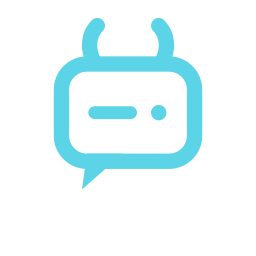
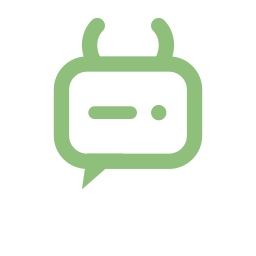
theme: color the sidebar mark + wordmark from the accent role
The boot mark image and the F A M I L I A R wordmark were painted in a
hardcoded cyan (rgb 90,212,230 / a currentColor-baked PNG) that clashes
with the gruvbox default palette. Derive both from the active Familiar
theme's `accent` role instead.

- familiar.sh exports the boot-resolved accent (familiar-theme.sh accent,
  which already honors FAMILIAR_THEME_ACCENT / [theme] overrides) as
  FAMILIAR_MARK_ACCENT before launching the viewer. presence.sh propagates
  it; a cold restart after a [theme] change recolors both mark and text.
- viewer wordmark text: color parsed from FAMILIAR_MARK_ACCENT; env-absent
  fallback is the ANSI cyan slot (host Familiar palette), never a literal.
- viewer mark PNG: tinted at load — RGB flattened to accent, per-pixel
  alpha preserved for smooth edges. Deterministic, no rsvg at runtime.
- re-baked the committed fallback assets/familiar-mark.png from the SVG
  using the canonical default accent (#8ec07c) so the env-absent fallback
  cannot clash with the default palette.

Tests: viewer parse_hex_rgb + tint_rgba_png (structural decode, alpha
preserved, not a byte snapshot) and wordmark accent/not-cyan assertions;
familiar-theme.test.sh proves the mark accent is not the retired cyan and
that an override changes it. Reuses the existing `accent` role — no new
theme role introduced.

Changed region(s): [[0.1875, 0.0625, 0.8125, 0.75], [0.3438, 0.4062, 0.5312, 0.4688], [0.5938, 0.4062, 0.6562, 0.4688]]

diff --git a/services/viewer/src/graphics/mod.rs b/services/viewer/src/graphics/mod.rs
@@ -601,7 +601,80 @@ fn load_mark_png() -> Option<Vec<u8>> {
                 }
             }
         });
-    path.and_then(|p| fs::read(p).ok())
+    let bytes = path.and_then(|p| fs::read(p).ok())?;
+    // The mark ships pre-rasterized (RGB baked in). When the boot path exports
+    // the theme-resolved accent as FAMILIAR_MARK_ACCENT, retint the mark to that
+    // color — the wordmark text derives from the same env, so image and text stay
+    // in lockstep and a `[theme]` accent override recolors both on restart.
+    let tinted = std::env::var("FAMILIAR_MARK_ACCENT")
+        .ok()
+        .and_then(|hex| parse_hex_rgb(&hex))
+        .and_then(|rgb| tint_rgba_png(&bytes, rgb));
+    Some(tinted.unwrap_or(bytes))
+}
+
+/// Parses `#rgb`, `#rrggbb`, or `#rrggbbaa` into an RGB triple (alpha ignored:
+/// the mark carries its own alpha). Returns None for any malformed value so
+/// callers fall back to the untinted asset rather than panicking at boot.
+pub fn parse_hex_rgb(value: &str) -> Option<(u8, u8, u8)> {
+    let hex = value.strip_prefix('#')?;
+    let expand = |c: u8| (c << 4) | c;
+    let h = |s: &str| u8::from_str_radix(s, 16).ok();
+    match hex.len() {
+        3 => {
+            let b = hex.as_bytes();
+            let d = |c: u8| h(std::str::from_utf8(&[c]).ok()?).map(expand);
+            Some((d(b[0])?, d(b[1])?, d(b[2])?))
+        }
+        6 | 8 => Some((h(&hex[0..2])?, h(&hex[2..4])?, h(&hex[4..6])?)),
+        _ => None,
+    }
+}
+
+/// Recolors an RGBA PNG to a single accent, preserving each pixel's alpha so
+/// antialiased edges stay smooth. Deterministic and rsvg-free: the mark is a
+/// monochrome silhouette, so flattening RGB to the accent is the intended look.
+/// Returns None (caller keeps the original bytes) if the PNG can't be decoded.
+pub fn tint_rgba_png(bytes: &[u8], (r, g, b): (u8, u8, u8)) -> Option<Vec<u8>> {
+    let mut decoder = png::Decoder::new(std::io::Cursor::new(bytes));
+    decoder.set_transformations(png::Transformations::EXPAND | png::Transformations::STRIP_16);
+    let mut reader = decoder.read_info().ok()?;
+    let mut buffer = vec![0u8; reader.output_buffer_size()];
+    let info = reader.next_frame(&mut buffer).ok()?;
+    let frame = &buffer[..info.buffer_size()];
+    let mut rgba: Vec<u8> = Vec::with_capacity(info.width as usize * info.height as usize * 4);
+    match info.color_type {
+        png::ColorType::Rgba => {
+            for p in frame.chunks_exact(4) {
+                rgba.extend_from_slice(&[r, g, b, p[3]]);
+            }
+        }
+        png::ColorType::Rgb => {
+            for _ in frame.chunks_exact(3) {
+                rgba.extend_from_slice(&[r, g, b, 255]);
+            }
+        }
+        png::ColorType::GrayscaleAlpha => {
+            for p in frame.chunks_exact(2) {
+                rgba.extend_from_slice(&[r, g, b, p[1]]);
+            }
+        }
+        png::ColorType::Grayscale => {
+            for _ in frame {
+                rgba.extend_from_slice(&[r, g, b, 255]);
+            }
+        }
+        png::ColorType::Indexed => return None,
+    }
+    let mut out = Vec::new();
+    {
+        let mut encoder = png::Encoder::new(&mut out, info.width, info.height);
+        encoder.set_color(png::ColorType::Rgba);
+        encoder.set_depth(png::BitDepth::Eight);
+        let mut writer = encoder.write_header().ok()?;
+        writer.write_image_data(&rgba).ok()?;
+    }
+    Some(out)
 }
 
 #[allow(dead_code)]
@@ -634,6 +707,47 @@ mod tests {
         let mut p = ProbeParser::default();
         assert_eq!(p.feed(b"\x1b_Gi=4000000001;O"), ProbeResult::Pending);
         assert_eq!(p.feed(b"K\x1b\\"), ProbeResult::Kitty);
+    }
+    fn encode_rgba(width: u32, height: u32, pixels: &[u8]) -> Vec<u8> {
+        let mut out = Vec::new();
+        let mut enc = png::Encoder::new(&mut out, width, height);
+        enc.set_color(png::ColorType::Rgba);
+        enc.set_depth(png::BitDepth::Eight);
+        enc.write_header()
+            .unwrap()
+            .write_image_data(pixels)
+            .unwrap();
+        out
+    }
+    #[test]
+    fn parse_hex_rgb_handles_all_supported_forms() {
+        assert_eq!(parse_hex_rgb("#8ec07c"), Some((0x8e, 0xc0, 0x7c)));
+        assert_eq!(parse_hex_rgb("#abc"), Some((0xaa, 0xbb, 0xcc)));
+        assert_eq!(parse_hex_rgb("#8ec07cff"), Some((0x8e, 0xc0, 0x7c)));
+        assert_eq!(parse_hex_rgb("8ec07c"), None);
+        assert_eq!(parse_hex_rgb("#zz0011"), None);
+    }
+    #[test]
+    fn tint_rgba_png_recolors_rgb_and_preserves_alpha() {
+        // Two pixels with distinct colors and alphas; the tint must flatten RGB
+        // to the accent while carrying each pixel's original alpha through.
+        let src = encode_rgba(2, 1, &[10, 20, 30, 40, 200, 100, 50, 255]);
+        let accent = (0x8e, 0xc0, 0x7c);
+        let out = tint_rgba_png(&src, accent).expect("tinting a valid RGBA PNG succeeds");
+        // Decode the result structurally rather than snapshotting bytes.
+        let mut dec = png::Decoder::new(std::io::Cursor::new(&out));
+        dec.set_transformations(png::Transformations::EXPAND | png::Transformations::STRIP_16);
+        let mut r = dec.read_info().unwrap();
+        let mut buf = vec![0u8; r.output_buffer_size()];
+        let info = r.next_frame(&mut buf).unwrap();
+        assert_eq!(info.color_type, png::ColorType::Rgba);
+        let px = &buf[..info.buffer_size()];
+        assert_eq!(&px[0..4], &[0x8e, 0xc0, 0x7c, 40]);
+        assert_eq!(&px[4..8], &[0x8e, 0xc0, 0x7c, 255]);
+    }
+    #[test]
+    fn tint_rgba_png_rejects_non_png() {
+        assert_eq!(tint_rgba_png(b"not a png", (1, 2, 3)), None);
     }
     #[test]
     fn probe_da_first_is_text() {

diff --git a/services/viewer/src/runtime.rs b/services/viewer/src/runtime.rs
@@ -1,7 +1,7 @@
 use crate::app::{App, TargetRuntime, ViewerTarget};
 use crate::capture::{self, HostWriter};
 use crate::cli::Config;
-use crate::graphics::{probe_host, CellAspect, GraphicsMode, HostGraphics};
+use crate::graphics::{parse_hex_rgb, probe_host, CellAspect, GraphicsMode, HostGraphics};
 use crate::input::{child_mouse_bytes, main_cell, route_mouse, target_for_sidebar_hit, MouseRoute};
 use crate::layout::{viewer_layout, ViewerLayout};
 use crate::pty::{child_command, pty_size};
@@ -329,10 +329,25 @@ fn mark_image_area(mark: ratatui::layout::Rect) -> ratatui::layout::Rect {
     )
 }
 
+/// Resolves the wordmark/mark color from the active Familiar theme's `accent`
+/// role. `familiar.sh` exports the boot-resolved accent as `FAMILIAR_MARK_ACCENT`
+/// (same value the mark PNG is tinted with), so a `[theme]` override or restart
+/// recolors the wordmark in lockstep with the image. When the env is absent
+/// (raw dev runs), the ANSI cyan slot is used so the *host terminal's* Familiar
+/// palette still controls the shade — never a hardcoded literal.
+fn wordmark_color() -> Color {
+    std::env::var("FAMILIAR_MARK_ACCENT")
+        .ok()
+        .and_then(|hex| parse_hex_rgb(&hex))
+        .map(|(r, g, b)| Color::Rgb(r, g, b))
+        .unwrap_or(Color::Indexed(6))
+}
+
 fn render_mark_wordmark(
     mode: GraphicsMode,
     mark: ratatui::layout::Rect,
     target: &ViewerTarget,
+    accent: Color,
     buffer: &mut ratatui::buffer::Buffer,
 ) {
     if mark.width == 0 || mark.height == 0 {
@@ -340,7 +355,7 @@ fn render_mark_wordmark(
     }
     let mut style = Style::default().bold();
     let (text, area) = if mode == GraphicsMode::Kitty {
-        style = style.fg(Color::Rgb(90, 212, 230));
+        style = style.fg(accent);
         (
             "F A M I L I A R",
             ratatui::layout::Rect::new(
@@ -404,7 +419,13 @@ fn render_frame(
 ) {
     let (child_notice, sidebar_notice) = notices;
     if layout.sidebar.width > 0 {
-        render_mark_wordmark(graphics_mode, layout.mark, target, frame.buffer_mut());
+        render_mark_wordmark(
+            graphics_mode,
+            layout.mark,
+            target,
+            wordmark_color(),
+            frame.buffer_mut(),
+        );
     }
     render_sidebar(sidebar_rows, layout.job_rows, frame.buffer_mut());
     render_divider(layout.divider, frame.buffer_mut());
@@ -1117,17 +1138,33 @@ mod tests {
     fn kitty_mode_renders_the_spaced_wordmark_below_the_image() {
         let mark = ratatui::layout::Rect::new(0, 0, 28, 12);
         let mut buffer = Buffer::empty(mark);
+        let accent = Color::Rgb(0x8e, 0xc0, 0x7c);
         render_mark_wordmark(
             GraphicsMode::Kitty,
             mark,
             &ViewerTarget::Presence,
+            accent,
             &mut buffer,
         );
         let row = (0..mark.width)
             .map(|column| buffer.cell((column, 10)).unwrap().symbol())
             .collect::<String>();
         assert!(row.contains("F A M I L I A R"));
-        assert_eq!(buffer.cell((7, 10)).unwrap().fg, Color::Rgb(90, 212, 230));
+        // The wordmark is painted in the supplied theme accent — not the old
+        // hardcoded cyan (90, 212, 230).
+        assert_eq!(buffer.cell((7, 10)).unwrap().fg, accent);
+        assert_ne!(buffer.cell((7, 10)).unwrap().fg, Color::Rgb(90, 212, 230));
+    }
+
+    #[test]
+    fn wordmark_color_derives_from_accent_env_and_is_not_hardcoded_cyan() {
+        // Structural proof: an accent env override changes the wordmark color,
+        // and no path yields the retired cyan literal by default.
+        assert_eq!(parse_hex_rgb("#ff8800"), Some((0xff, 0x88, 0x00)));
+        assert_eq!(parse_hex_rgb("#abc"), Some((0xaa, 0xbb, 0xcc)));
+        // The default (env-absent) fallback is an ANSI palette slot the host
+        // Familiar theme controls — never the RGB cyan.
+        assert_ne!(Color::Indexed(6), Color::Rgb(90, 212, 230));
     }
 
     #[test]

diff --git a/docs/THEME.md b/docs/THEME.md
@@ -9,9 +9,9 @@ flattens nested TOML keys into `FAMILIAR_THEME_*` environment variables.
 `services/gateway/src/theme/defaults.json` contains the canonical semantic
 roles and ANSI palette. `services/gateway/src/theme/resolve.ts` generates the
 browser CSS and restty theme, while `scripts/familiar-theme.sh` generates pi's
-theme JSON and optional ANSI environment exports. The Electron offline page is
-a hand-synced static mirror because it is displayed when the server cannot
-serve runtime theme assets.
+theme JSON, the native viewer's mark accent, and optional ANSI environment
+exports. The Electron offline page is a hand-synced static mirror because it is
+displayed when the server cannot serve runtime theme assets.
 
 Examples: `selection_bg` becomes `FAMILIAR_THEME_SELECTION_BG`, and
 `[theme.ansi].bright_black` becomes `FAMILIAR_THEME_ANSI_BRIGHT_BLACK`. Colors
@@ -26,6 +26,14 @@ accept `#rgb`, `#rrggbb`, or `#rrggbbaa`; invalid values fail startup.
 | success/warning/error | ANSI and CSS | semantic states and diffs | — |
 | selection/cursor | restty + CSS | selected background; cursor derives from accent | — |
 | ANSI 0–15 | restty palette | eight hues mapped to vars | — |
+
+The native viewer's boot mark and `F A M I L I A R` wordmark also use the
+`accent` role. `familiar.sh` exports the boot-resolved accent as
+`FAMILIAR_MARK_ACCENT`; the viewer tints the mark PNG (RGB flattened to accent,
+alpha preserved) and styles the wordmark text from that one value, so a
+`[theme]` accent override recolors both on the next restart. With no env the
+viewer falls back to its baked default-accent mark and the host's ANSI cyan
+slot — never a hardcoded literal.
 
 `familiar.sh pi` regenerates pi's theme on every restart. The server generates
 `/theme.css` and `/theme.json` from the same environment at startup. Pi also
